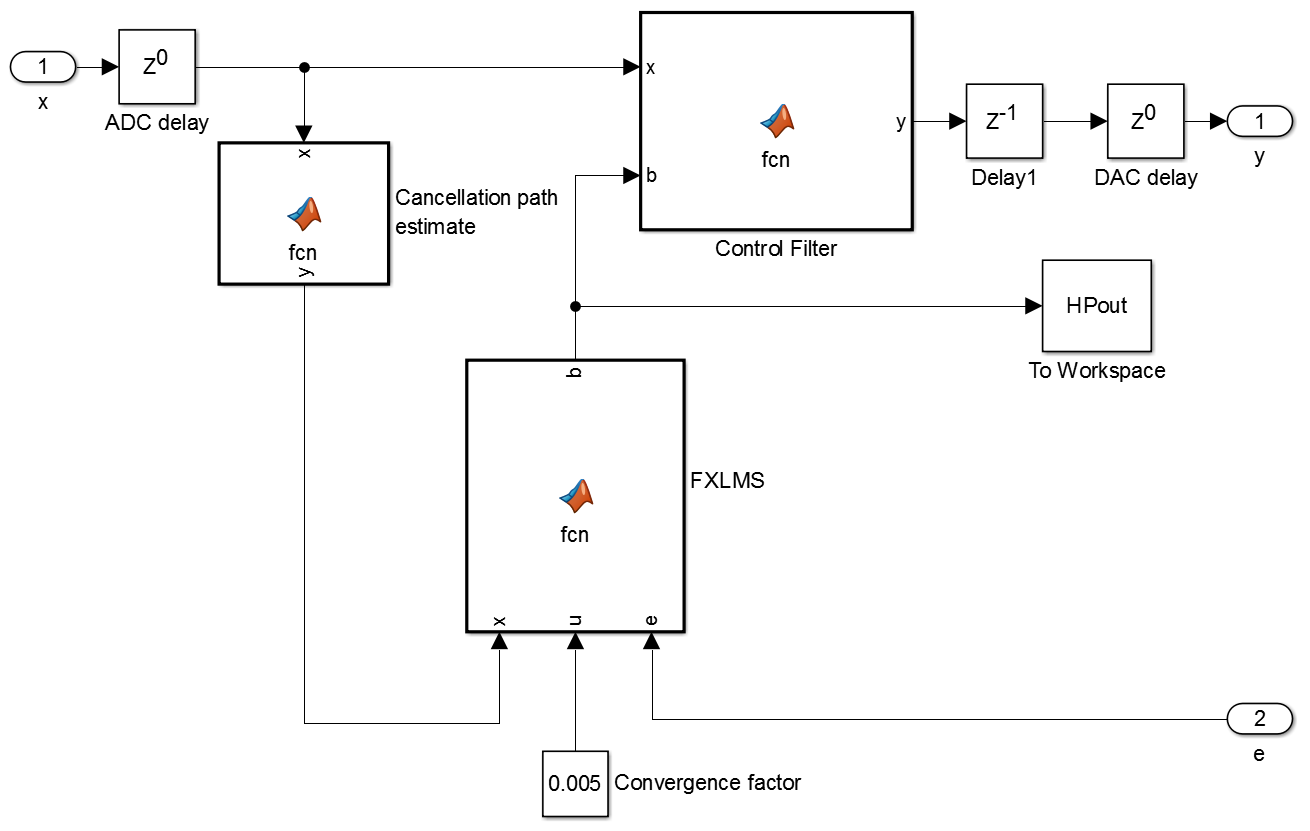
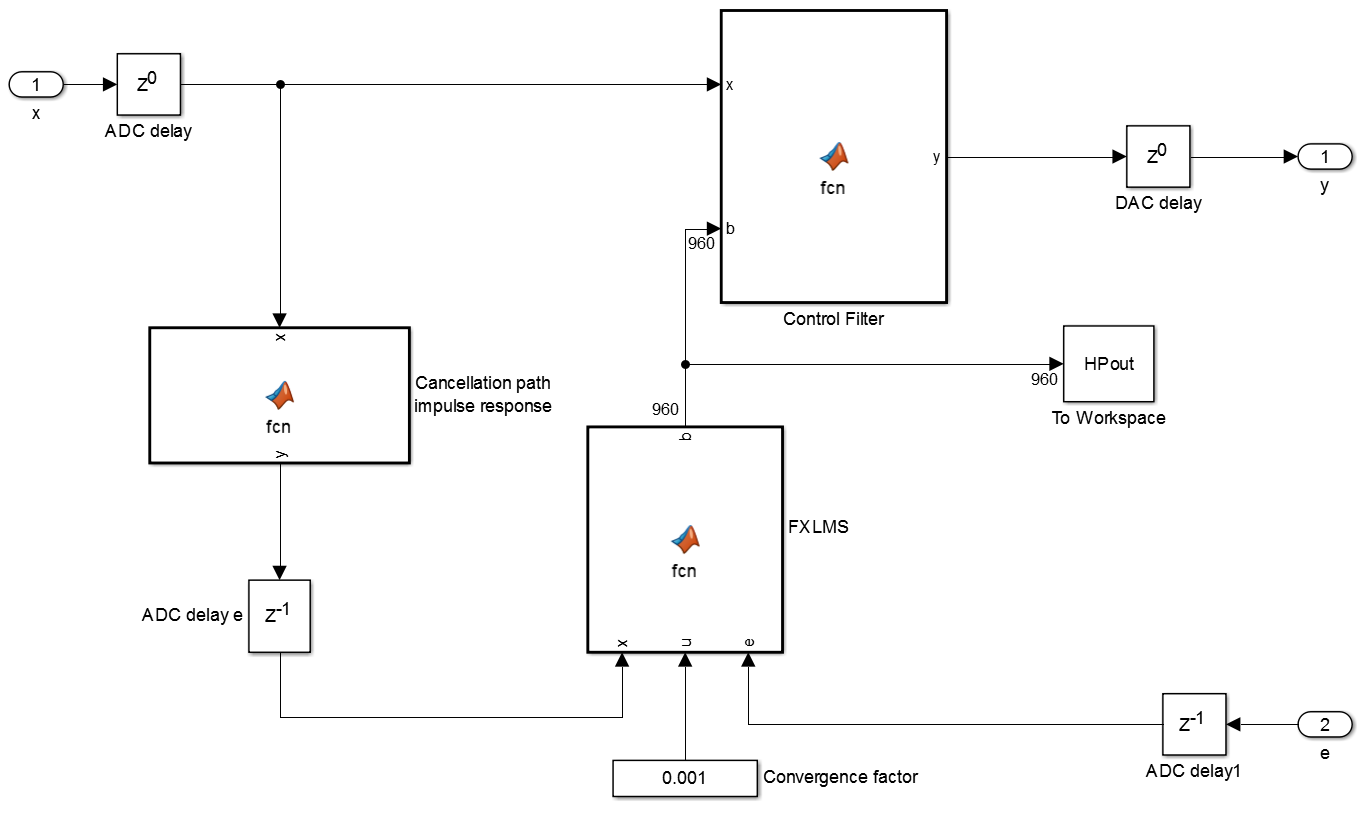
System design

diff --git a/Article/2Appendix/BasicSystem/SystemDesign.tex b/Article/2Appendix/BasicSystem/SystemDesign.tex
@@ -1,5 +1,5 @@
 \section{System Design} \label{sec:systemDesign}
-This appendix will go through the design of the system using a feedforward topology. The ANC system will be placed in a headphone with the microphones placed as seen on \autoref{fig:SystemHeadphone}. A B\&K TYPE 4128-C will be used as the HATS during tests. This means that the cancellation path will have a time invariant impulse response. 
+This appendix will go through the design of the system using a feedforward topology. The ANC system will be placed in a headphone with the microphones placed as seen on \autoref{fig:SystemHeadphone}. A B\&K TYPE 4128-C will be used as the HATS during tests. This means that the cancellation path will have a linear time invariant (LTI) impulse response. 
 
 
 \begin{figure}[H]
@@ -9,7 +9,7 @@ This appendix will go through the design of the system using a feedforward topol
 	\label{fig:SystemHeadphone}
 \end{figure}  
 
-Because the cancellation path is constant, the adaptive algorithm adjusting the cancellation path (CP) estimate will not be in the basic system. This means that the copy of the CP estimate will be a constant impulse response. The CP has been found as described in \autoref{sec:CPjournal}. The basic feedforward control system is shown in \autoref{fig:BasicSystem}. 
+Because the cancellation path is LTI, the adaptive algorithm adjusting the cancellation path (CP) estimate will not be in the system. This means that the copy of the CP estimate will be a constant impulse response. The CP has been found as described in \autoref{sec:CPjournal}. The used feedforward control system is shown in \autoref{fig:BasicSystem} and is described in \autoref{sec:BasicSystem}. 
 
 \begin{figure}[H]
 	\centering
@@ -18,20 +18,19 @@ Because the cancellation path is constant, the adaptive algorithm adjusting the 
 	\label{fig:BasicSystem}
 \end{figure}   
 
-\fxnote{Possibly missing text}
 
 
 
 \subsection{FXLMS algorithm for FIR filters}\label{subsec:fxlms}
 The FXLMS is a gradient descent algorithm which iteratively changes the coefficients of the control filter by adding a calculated step to the current coefficients which should converge to a global minimum of the error criterion. The derivation of the FXLMS algorithm is given below. 
 \begin{equation}\label{eq:FXLMSNewCoef}
-w(k+1) = w(k) - \mu\nabla J(k)
+\bar{b}(k+1) = \bar{b}(k) - \mu\nabla \bar{J}(k)
 \end{equation}
 Where:
 \begin{description}
-	\item[\text{$\nabla$J}] is the gradient of the error surface at the location given by the current weight coefficient.
+	\item[\text{$\nabla \bar{J}$}] is the gradient of the error surface at the location given by the current weight coefficient.
 	\item[\text{$\mu$}] is a convergence factor.
-	\item[w(k)] is the weight coefficients of the control filter written as  $w(k)=[w_0(k),w_1(k) ,\cdots, w_{L-1}(k)]^T$.
+	\item[\text{$\bar{b}(k)$}] is the weight coefficients of the control filter written as  $\bar{b}(k)=[b_0(k),b_1(k) ,\cdots, b_{L-1}(k)]^T$.
 \end{description}
 The error is defined as:
 \begin{equation}\label{eq:FXLMSError}
@@ -40,74 +39,74 @@ e(k) = p(k) + s(k)
 Where:
 \begin{description}
 	\item[\text{$p(k)$}] is the primary noise source.
-	\item[\text{$s(k)$}] is the control source.
+	\item[\text{$s(k)$}] is the counterphase signal.
 \end{description}
 
-The error criterion as a function of the filter weights is to be minimized, therefore the gradient of the error surface ($\nabla J$) is calculated by differentiating the mean squared error (MSE), as shown in equation \ref{eq:FXLMSGradient}.
+The error criterion as a function of the filter weights is to be minimized, therefore the gradient of the error surface ($\nabla \bar{J}$) is calculated by differentiating the squared error, as shown in equation \ref{eq:FXLMSGradient}.
 \begin{equation}\label{eq:FXLMSGradient}
-J(k) = e^2(k)
+\bar{J}(k) = e^2(k)
 \end{equation}
 
-Differentiating equation \ref{eq:FXLMSGradient} with respect to $w(k)$ yields equation \ref{eq:FXLMSGradientW(k)}. The last substitution can be made because $p(k)$ does not depend on $w(k)$. So the term $p(k)$ from equation \ref{eq:FXLMSError} does not influence the gradient of $e(k)$:
+Differentiating equation \ref{eq:FXLMSGradient} with respect to $b(k)$ yields equation \ref{eq:FXLMSGradientW(k)}. The last substitution can be made because $p(k)$ does not depend on $b(k)$. So the term $p(k)$ from equation \ref{eq:FXLMSError} does not influence the gradient of $e(k)$:
 
 \begin{equation}\label{eq:FXLMSGradientW(k)}
-\Delta w(k) = \frac{\partial e^2(k)}{\partial w(k)} = 2e(k)\frac{\partial e(k)}{\partial w(k)} = 2e(k)\frac{\partial s(k)}{\partial w(k)}
+\Delta \bar{b}(k) = \frac{\partial e^2(k)}{\partial \bar{b}(k)} = 2e(k)\frac{\partial e(k)}{\partial \bar{b}(k)} = 2e(k)\frac{\partial s(k)}{\partial \bar{b}(k)}
 \end{equation}
 $e(k)$ can be sampled. How to obtain s(k) is described below. \\
 The controller output signal y(k) is given by equation \ref{eq:FXLMSOutput}.
 
 \begin{equation}\label{eq:FXLMSOutput}
-y(k) = w^T(k) + x(k) = \sum_{i=0}^{L-1} w_i(k)x(k-i)
+y(k) = \bar{b}^T(k)*\bar{x}(k) = \sum_{j=0}^{L-1} b_j(k)x(k-j)
 \end{equation}
 Where:
 \begin{description}
-	\item[x(k)] = $[x(k) x(k-1) \cdots x(k-L+1)]^T $
+	\item[\text{$\bar{x}(k)$}] = $[x(k) x(k-1) \cdots x(k-L+1)]^T $
 \end{description}
 $s(k)$ can be formulated as equation \ref{eq:FXLMSs(k)}.
 
 \begin{equation}\label{eq:FXLMSs(k)}
-s(k) = [w^T(k)x(k)]*c(k)\approx y(k)*\hat{c}(k) = \sum_{i=0}^{M-1}\hat{c}_i(k)y(k-1)
+s(k) = [\bar{b}^T(k)\bar{x}(k)]*\bar{c}(k)\approx \bar{y}(k)*\bar{\hat{c}}(k) = \sum_{j=0}^{M-1}\hat{c}_j(k)y(k-j)
 \end{equation}
 Where:
 \begin{description}
-	\item[y(k)] = $[ y(k), y(k-1), \cdots, y(k-M+1)]$
-	\item[c(k)] is the impulse response of the cancellation path (filter taps)
+	\item[\text{$\bar{y}(k)$}] = $[ y(k), y(k-1), \cdots, y(k-M+1)]$
+	\item[\text{$\bar{c}(k)$}] is the impulse response of the cancellation path (filter taps)
 \end{description}
 
 Equation \ref{eq:FXLMSs(k)} can be rewritten to equation \ref{eq:FXLMSs(k)2}.
 
 \begin{equation}\label{eq:FXLMSs(k)2}
-s(k) = [w^T(k)x(k)]*c(k)\approx w^T(k)*f(k)
+s(k) = [\bar{b}^T(k)\bar{x}(k)]*\bar{c}(k)\approx \bar{b}^T(k)*\bar{f}(k)
 \end{equation}
 Where:
 \begin{description}
-	\item[f(k)] is the filtered reference signal $f(k)=x(k)c(k)$
-	\item[f(k-j)] = $\sum_{i=0}^{M-1}\hat{c}_i(k)x(k-i-j)$
+	\item[\text{$\bar{f}(k)$}] is the filtered reference signal $f(k)=\bar{x}^T(k)\bar{c}(k)$
+	\item[\text{$\bar{f}(k-j)$})] = $\sum_{i=0}^{M-1}\hat{c}_i(k)x(k-i-j)$
 \end{description}
 
 By using equation \ref{eq:FXLMSs(k)2} substituted into equation \ref{eq:FXLMSGradientW(k)}, the error of the surface gradient can be written as equation \ref{eq:FXLMSNablaJ}:
 
 \begin{equation}\label{eq:FXLMSNablaJ}
-\nabla J = 2e(k)\frac{\partial s(k)}{\partial w(k)} = 2e(k)f(k)
+\nabla \bar{J} = 2e(k)\frac{\partial s(k)}{\partial \bar{b}(k)} = 2e(k)f(k)
 \end{equation}
 
 Which yields equation \ref{eq:FXLMSw(k+1)}:
 
 \begin{equation}\label{eq:FXLMSw(k+1)}
-w(k+1) = w(k) - 2\mu e(k)f(k)
+\bar{b}(k+1) = \bar{b}(k) - 2\mu e(k)\bar{f}(k)
 \end{equation}
 
 Which is the standard FXLMS algorithm when using an adaptive FIR filter.
 \begin{equation}\label{eq:FXLMSw_j(k+1)}
-w_j(k+1) = w_j(k) - 2\mu e(k)f(k-j)
+b_j(k+1) = b_j(k) - 2\mu e(k)f(k-j)
 \end{equation}
 
-With the definition of the FXLMS given, the basic system in \autoref{fig:BasicSystem}, can be simulated.
+With the definition of the FXLMS given, the system in \autoref{fig:BasicSystem}, can be simulated.
 
 
 
 \subsection{Simulation} 
-The basic system shown in \autoref{fig:BasicSystem} has been setup in Simulink\textsuperscript{\textregistered}, as shown in \autoref{fig:SimulinkRealWorld} and \autoref{fig:SimulinkANC} showing the "real world"-simulation and the alogrithm-simulation, respectively.
+The system shown in \autoref{fig:BasicSystem} has been setup in Simulink\textsuperscript{\textregistered}, as shown in \autoref{fig:SimulinkRealWorld} and \autoref{fig:SimulinkANC} showing the "real world"-simulation and the alogrithm-simulation, respectively.
 
 \begin{figure}[H]
 	\centering
@@ -123,7 +122,7 @@ The basic system shown in \autoref{fig:BasicSystem} has been setup in Simulink\t
 	\label{fig:SimulinkANC}
 \end{figure} 
 
-The functions for the different impulse responses and the control filter is a standard sample-by-sample FIR filter, while the FXLMS algorithm is \autoref{eq:FXLMSw_j(k+1)} implemented with a convergence factor of 0.005. This convergence factor is chosen to by experiment to be as large as possible, without getting an unstable system as described by Hansen \cite{Hansen2}. The delay of the ADC and DAC is set to 0 samples.\fxnote{Which results do we need}
+The functions for the different impulse responses and the control filter is a standard sample-by-sample FIR filter, while the FXLMS algorithm is \autoref{eq:FXLMSw_j(k+1)} implemented with a convergence factor of 0.001. This convergence factor is chosen to by experiment to be as large as possible, without getting an unstable system as described by Hansen \cite{Hansen2}. The delay of the ADC and DAC is set to 0 samples.\fxnote{Which results do we need}
 
 
 
